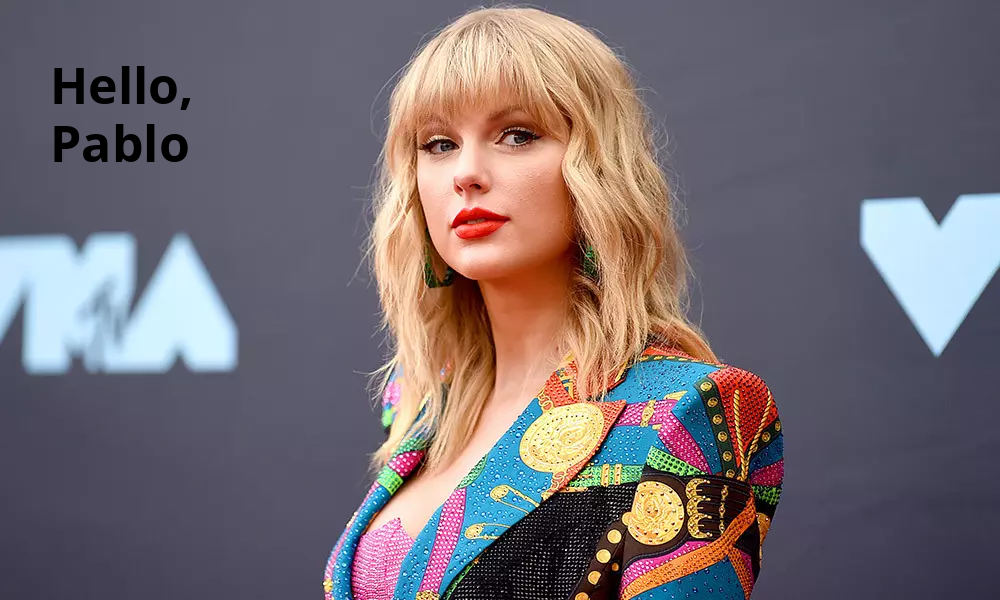
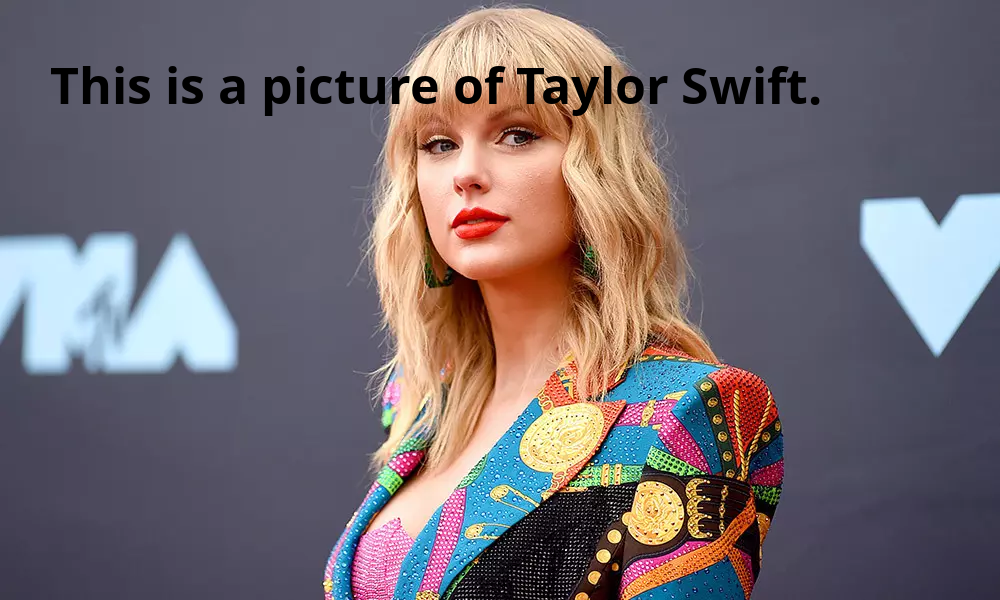
WORK ON JUNE 9

Changed region(s): [[0.031, 0.09, 0.837, 0.21], [0.031, 0.21, 0.186, 0.27]]

diff --git a/hello-Taylor.py b/hello-Taylor.py
@@ -2,7 +2,7 @@ from PIL import Image, ImageDraw, ImageFont
 img = Image.open("Taylor-Swift.jpg")
 draw = ImageDraw.Draw(img)
 
-txt = "Hello,\nPablo"
+txt = "This is a picture of Taylor Swift."
 font = ImageFont.truetype('OpenSans-Bold.ttf',50)
 draw.text((50, 50), txt, font = font, fill=(0, 0, 0))
 img.save('hello-Taylor.png')

diff --git a/ages.py b/ages.py
@@ -1,0 +1,8 @@
+for x in range(0,3):
+    age = int(input("What\'s your age?\n"))
+    if age >= 18:
+        print('Hi grown-up')
+    elif age <= 2:
+        print('Hi baby')
+    else:
+        print("Hi kid")

diff --git a/money.py b/money.py
@@ -1,0 +1,6 @@
+money = int(input("How much money do you have?\n"))
+if money > 1000:
+    print("I'm rich!!")
+else:
+    print("I'm not rich!!")
+    print("But I might be later...")

diff --git a/workspace.py b/workspace.py
@@ -1,0 +1,2 @@
+print(10000000 * 'AP')
+
